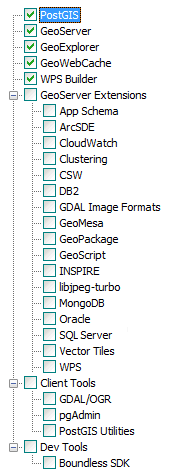
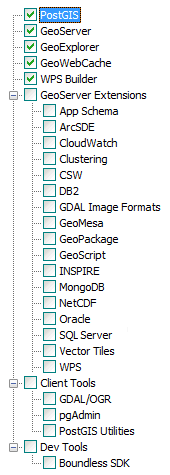
Adding NetCDF to extensions list

Changed region(s): [[0.3529, 0.5895, 0.7059, 0.6484]]

diff --git a/docs/usermanual/source/intro/installation/redhat/packages.rst b/docs/usermanual/source/intro/installation/redhat/packages.rst
@@ -179,12 +179,12 @@ The following packages are available:
    * - ``geoserver-inspire``
      - Additional WMS and WFS metadata configuration for INSPIRE compliance
      - OpenGeo Suite Enterprise only
-   * - ``geoserver-libjpeg-turbo``
-     - Image rendering enhancement library.
-     - OpenGeo Suite Enterprise only
    * - ``geoserver-mongodb``
      - MongoDB data format extension for GeoServer
      - OpenGeo Suite Enterprise only
+   * - ``geoserver-netcdf``
+     - NetCDF data format support (read-only)
+     - All versions
    * - ``geoserver-oracle``
      - Oracle database extension for GeoServer
      - OpenGeo Suite Enterprise only

diff --git a/docs/usermanual/source/intro/installation/ubuntu/packages.rst b/docs/usermanual/source/intro/installation/ubuntu/packages.rst
@@ -179,12 +179,12 @@ The following packages are available:
    * - ``geoserver-inspire``
      - Additional WMS and WFS metadata configuration for INSPIRE compliance
      - OpenGeo Suite Enterprise only
-   * - ``geoserver-libjpeg-turbo``
-     - Image rendering enhancement library.
-     - OpenGeo Suite Enterprise only
    * - ``geoserver-mongodb``
      - MongoDB data format extension for GeoServer
      - OpenGeo Suite Enterprise only
+   * - ``geoserver-netcdf``
+     - NetCDF data format support (read-only)
+     - All versions
    * - ``geoserver-oracle``
      - Oracle database extension for GeoServer
      - OpenGeo Suite Enterprise only

diff --git a/docs/usermanual/source/intro/installation/mac/components.rst b/docs/usermanual/source/intro/installation/mac/components.rst
@@ -98,12 +98,12 @@ GeoServer Extensions
    * - INSPIRE
      - Additional WMS and WFS metadata configuration for INSPIRE compliance
      - OpenGeo Suite Enterprise only
-   * - libjpeg-turbo
-     - Image rendering enhancement library.
-     - OpenGeo Suite Enterprise only
    * - MongoDB
      - :ref:`MongoDB <dataadmin.mongodb>` database support.
      - OpenGeo Suite Enterprise only
+   * - NetCDF
+     - NetCDF data format support (read-only)
+     - All versions
    * - Oracle
      - :ref:`Oracle <dataadmin.oracle>` database support.
      - OpenGeo Suite Enterprise only

diff --git a/docs/usermanual/source/intro/installation/windows/components.rst b/docs/usermanual/source/intro/installation/windows/components.rst
@@ -88,12 +88,12 @@ GeoServer Extensions
    * - INSPIRE
      - Additional WMS and WFS metadata configuration for INSPIRE compliance
      - OpenGeo Suite Enterprise only
-   * - libjpeg-turbo
-     - Image rendering enhancement library.
-     - OpenGeo Suite Enterprise only
    * - MongoDB
      - :ref:`MongoDB <dataadmin.mongodb>` database support.
      - OpenGeo Suite Enterprise only
+   * - NetCDF
+     - NetCDF data format support (read-only)
+     - All versions
    * - Oracle
      - :ref:`Oracle <dataadmin.oracle>` database support.
      - OpenGeo Suite Enterprise only

diff --git a/docs/usermanual/source/intro/installation/war/extensions.rst b/docs/usermanual/source/intro/installation/war/extensions.rst
@@ -29,10 +29,10 @@ GeoServer :ref:`extensions <intro.extensions>` are distributed as a separate arc
      - Database catalog and configuration extension for GeoServer. Use with ``cluster``.
    * - ``inspire``
      - Additional WMS and WFS metadata configuration for INSPIRE compliance
-   * - ``libjpeg-turbo``
-     - Image rendering enhancement library
    * - ``mongodb``
      - MongoDB data format extension for GeoServer
+   * - ``netcdf``
+     - NetCDF data format support (read-only)
    * - ``oracle``
      - Oracle database extension for GeoServer
    * - ``scripting``
